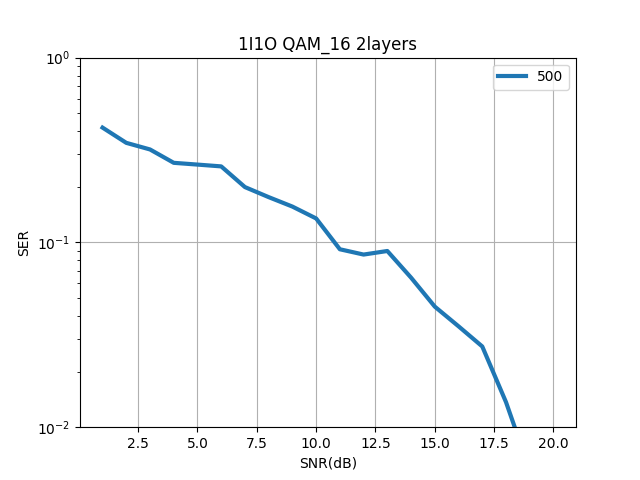
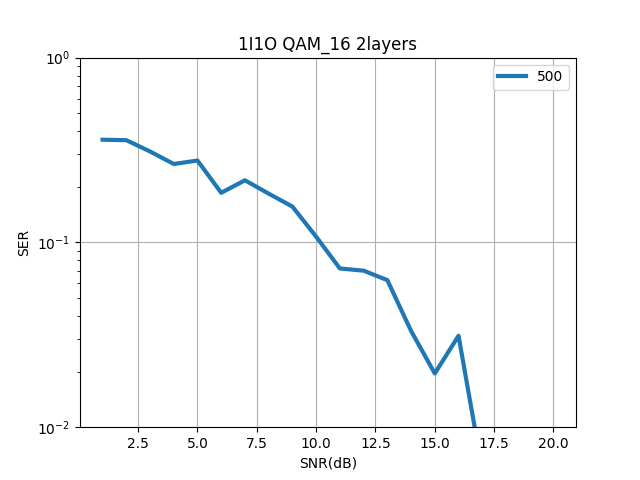
plot amend2

Changed region(s): [[0.2188, 0.3125, 0.7812, 0.9062], [0.7812, 0.8125, 0.8125, 0.9062], [0.1562, 0.25, 0.2188, 0.3125]]

diff --git a/pytorch/compare_modulation.py b/pytorch/compare_modulation.py
@@ -38,16 +38,16 @@ MMNet_INFO = {
     'denoiser_name': 'MMNet_Denoiser',
     'num_layers': 10,
     'QAM_16':{
-        'ckpt_linear': 'experiments_AWGN_order2_sharp/SISO_QAM16_AWGN_LINEAR_MMNet_500epochs/MMNet_10layers_epoch500.pth',
-        'ckpt_nonlinear': 'experiments_AWGN_order2_sharp/SISO_QAM16_AWGN_NONLINEAR_MMNet_500epochs/MMNet_10layers_epoch500.pth'
+        'ckpt_linear': 'experiments_AWGN_order2_mild/SISO_QAM16_AWGN_LINEAR_MMNet_500epochs/MMNet_10layers_epoch500.pth',
+        'ckpt_nonlinear': 'experiments_AWGN_order2_mild/SISO_QAM16_AWGN_NONLINEAR_MMNet_500epochs/MMNet_10layers_epoch500.pth'
     },
     'QAM_64':{
-        'ckpt_linear': 'experiments_AWGN_order2_sharp/SISO_QAM64_AWGN_LINEAR_MMNet_500epochs/MMNet_10layers_epoch500.pth',
-        'ckpt_nonlinear': 'experiments_AWGN_order2_sharp/SISO_QAM64_AWGN_NONLINEAR_MMNet_500epochs/MMNet_10layers_epoch500.pth'
+        'ckpt_linear': 'experiments_AWGN_order2_mild/SISO_QAM64_AWGN_LINEAR_MMNet_500epochs/MMNet_10layers_epoch500.pth',
+        'ckpt_nonlinear': 'experiments_AWGN_order2_mild/SISO_QAM64_AWGN_NONLINEAR_MMNet_500epochs/MMNet_10layers_epoch500.pth'
     },
     'QAM_256':{
-        'ckpt_linear': 'experiments_AWGN_order2_sharp/SISO_QAM256_AWGN_LINEAR_MMNet_500epochs/MMNet_10layers_epoch500.pth',
-        'ckpt_nonlinear': 'experiments_AWGN_order2_sharp/SISO_QAM256_AWGN_NONLINEAR_MMNet_500epochs/MMNet_10layers_epoch500.pth'
+        'ckpt_linear': 'experiments_AWGN_order2_mild/SISO_QAM256_AWGN_LINEAR_MMNet_500epochs/MMNet_10layers_epoch500.pth',
+        'ckpt_nonlinear': 'experiments_AWGN_order2_mild/SISO_QAM256_AWGN_NONLINEAR_MMNet_500epochs/MMNet_10layers_epoch500.pth'
     }
 }
 
@@ -58,16 +58,16 @@ FCNet_INFO = {
     'downstream': 1,
     'p': 0.,
     'QAM_16': {
-        'ckpt_linear': 'experiments_AWGN_order2_sharp/SISO_QAM16_AWGN_LINEAR_FCNet_500epochs/upstream1_downstream1_epoch500.pth',
-        'ckpt_nonlinear': 'experiments_AWGN_order2_sharp/SISO_QAM16_AWGN_NONLINEAR_FCNet_500epochs/upstream1_downstream1_epoch500.pth'
+        'ckpt_linear': 'experiments_AWGN_order2_mild/SISO_QAM16_AWGN_LINEAR_FCNet_500epochs/upstream1_downstream1_epoch500.pth',
+        'ckpt_nonlinear': 'experiments_AWGN_order2_mild/SISO_QAM16_AWGN_NONLINEAR_FCNet_500epochs/upstream1_downstream1_epoch500.pth'
     },
     'QAM_64': {
-        'ckpt_linear': 'experiments_AWGN_order2_sharp/SISO_QAM64_AWGN_LINEAR_FCNet_500epochs/upstream1_downstream1_epoch500.pth',
-        'ckpt_nonlinear': 'experiments_AWGN_order2_sharp/SISO_QAM64_AWGN_NONLINEAR_FCNet_500epochs/upstream1_downstream1_epoch500.pth'
+        'ckpt_linear': 'experiments_AWGN_order2_mild/SISO_QAM64_AWGN_LINEAR_FCNet_500epochs/upstream1_downstream1_epoch500.pth',
+        'ckpt_nonlinear': 'experiments_AWGN_order2_mild/SISO_QAM64_AWGN_NONLINEAR_FCNet_500epochs/upstream1_downstream1_epoch500.pth'
     },
     'QAM_256': {
-        'ckpt_linear': 'experiments_AWGN_order2_sharp/SISO_QAM256_AWGN_LINEAR_FCNet_500epochs/upstream1_downstream1_epoch500.pth',
-        'ckpt_nonlinear': 'experiments_AWGN_order2_sharp/SISO_QAM256_AWGN_NONLINEAR_FCNet_500epochs/upstream1_downstream1_epoch500.pth'
+        'ckpt_linear': 'experiments_AWGN_order2_mild/SISO_QAM256_AWGN_LINEAR_FCNet_500epochs/upstream1_downstream1_epoch500.pth',
+        'ckpt_nonlinear': 'experiments_AWGN_order2_mild/SISO_QAM256_AWGN_NONLINEAR_FCNet_500epochs/upstream1_downstream1_epoch500.pth'
     }
 }
 
@@ -400,4 +400,4 @@ def compare_FCNet_QAM(args, fig_dir):
 if __name__ == '__main__':
     args = parse_args()
     compare_MMNet_QAM(args, args.fig_dir)
-    compare_FCNet_QAM(args, args.fig_dir)
+    #compare_FCNet_QAM(args, args.fig_dir)

diff --git a/pytorch/train_FCNet.py b/pytorch/train_FCNet.py
@@ -123,20 +123,20 @@ def train(args):
     num_layers = layers_dict['upstream'] + 1 + layers_dict['downstream']
 
     SNRdB_range_train = np.linspace(args.SNRdB_min, args.SNRdB_max, args.train_size)
-    # trainset = QAM_Dataset(params, SNRdB_range_train)
-    # trainloader = DataLoader(trainset, batch_size=args.batch_size_train, shuffle=True, num_workers=2)
-    # SNRdB_range_test = np.linspace(args.SNRdB_min, args.SNRdB_max, args.test_size)
-    # SNRdB_range_test = np.repeat(SNRdB_range_test, args.batch_size_test, axis=0)
-    # testset = QAM_Dataset(params, SNRdB_range_test)
-    # testloader = DataLoader(testset, batch_size=args.batch_size_test, shuffle=False, num_workers=2)
-
-    params.update({'amplifier':args.amplifier, 'order':2, 'coefficients': [1.0, -0.1]})
-    trainset = QAM_Dataset_Nonlinear(params, SNRdB_range_train)
+    trainset = QAM_Dataset(params, SNRdB_range_train)
     trainloader = DataLoader(trainset, batch_size=args.batch_size_train, shuffle=True, num_workers=2)
     SNRdB_range_test = np.linspace(args.SNRdB_min, args.SNRdB_max, args.test_size)
     SNRdB_range_test = np.repeat(SNRdB_range_test, args.batch_size_test, axis=0)
-    testset = QAM_Dataset_Nonlinear(params, SNRdB_range_test)
+    testset = QAM_Dataset(params, SNRdB_range_test)
     testloader = DataLoader(testset, batch_size=args.batch_size_test, shuffle=False, num_workers=2)
+
+    # params.update({'amplifier':args.amplifier, 'order':2, 'coefficients': [1.0, -0.1]})
+    # trainset = QAM_Dataset_Nonlinear(params, SNRdB_range_train)
+    # trainloader = DataLoader(trainset, batch_size=args.batch_size_train, shuffle=True, num_workers=2)
+    # SNRdB_range_test = np.linspace(args.SNRdB_min, args.SNRdB_max, args.test_size)
+    # SNRdB_range_test = np.repeat(SNRdB_range_test, args.batch_size_test, axis=0)
+    # testset = QAM_Dataset_Nonlinear(params, SNRdB_range_test)
+    # testloader = DataLoader(testset, batch_size=args.batch_size_test, shuffle=False, num_workers=2)
     
     ReceiverModel = FullyConnectedNet(params, layers_dict, args.dropout)
     if args.cuda:
